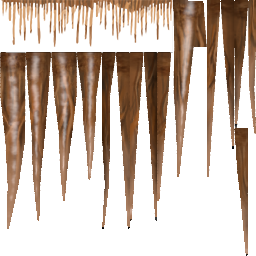
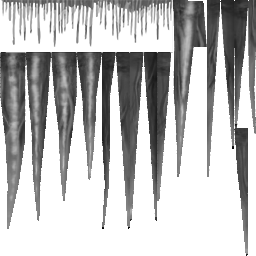
Stalactite1 has dynamic texture color

diff --git a/planet/Objects.ocd/Environment.ocd/Stalactite1.ocd/Script.c b/planet/Objects.ocd/Environment.ocd/Stalactite1.ocd/Script.c
@@ -2,24 +2,98 @@
 	Stalactite1
 	Hangs from the ceiling
 
-	@author 
+	@author Armin
 */
 
-local Name = "$Name$";
-local Description = "$Description$";
-
-func Initialize()
+private func Initialize()
 {
 	SetGraphics(Format("%d",Random(5)));
 	
 	SetProperty("MeshTransformation", Trans_Mul(Trans_Scale(600+Random(900)), Trans_Rotate(-25+Random(50),0,1,0)));
 	
-	var tinys = CreateObject(TinyStalactite, 0, 0);
+	/*var tinys = CreateObject(TinyStalactite, 0, 0);
 	tinys->SetProperty("MeshTransformation", Trans_Mul(Trans_Scale(1000), Trans_Rotate(180,0,0,1)));
-	tinys->SetParent(this);
+	tinys->SetParent(this);*/
 }
 
-func SetStalagmite()
+private func Hit()
+{
+	//Sound();
+	RemoveObject();
+	return true;
+}
+
+private func SetStalagmite()
 {
 	SetProperty("MeshTransformation", Trans_Mul(Trans_Scale(1000), Trans_Rotate(180,0,0,1)));
 }
+
+public func Place(int amount, proplist rectangle, proplist settings)
+{
+	// Only allow definition call.
+	if (this != Stalactite1) 
+		return;
+	// Default parameters.
+	if (!settings) 
+		settings = { size = [100, 100] };
+	if (!settings.size) 
+		settings.size = [100, 100];
+	var loc_area = nil;
+	if (rectangle) 
+		loc_area = Loc_InRect(rectangle);
+	var loc_background = Loc_Tunnel();
+	if (settings.underground)
+		loc_background = Loc_Tunnel();
+		
+	var stalactites = [];	
+	for (var i = 0; i < amount; i++)
+	{
+		var size = RandomX(settings.size[0], settings.size[1]);
+		var loc = FindLocation(loc_background, Loc_Not(Loc_Liquid()), Loc_Wall(CNAT_Right), Loc_Wall(CNAT_Top), loc_area);
+		if (!loc)
+			continue;
+
+		var stalactite = CreateObject(Stalactite1);
+		stalactite->SetPosition(loc.x, loc.y + 25);
+		var tinys = CreateObject(TinyStalactite, 0, 0);
+		tinys->SetPosition(loc.x, loc.y+4);
+		tinys->SetParent(stalactite);
+		stalactite->SetCon(size);
+		// todo stalactite->AdjustPosition();
+		var mat = MaterialName(stalactite->GetMaterial(0, -stalactite->GetObjHeight()/2));
+		//stalactite->Message("Material: %s|Minus: %d", mat, stalactite->GetObjHeight()/2);
+		if (mat == "Ice")
+		{
+			stalactite->SetClrModulation(RGBa(157,202,243,160));
+			tinys->SetClrModulation(RGBa(157,202,243,160));
+		}
+		else
+		{
+			stalactite->SetClrModulation(GetAverageTextureColor(mat));
+			tinys->SetClrModulation(GetAverageTextureColor(mat));
+			tinys->DrawWaterSource();
+		}
+		if (!Random(2))
+		{
+			var xy;
+			if (xy = FindConstructionSite(Stalactite1, loc.x, loc.y+60));
+			{
+				var stalactite2 = CreateObject(Stalactite1, loc.x, xy[1]-28);
+				stalactite2->SetR(180);
+				if (mat == "Ice")
+				{
+					stalactite2->SetClrModulation(RGBa(157,202,243,160));
+				}
+				else
+				{
+					stalactite2->SetClrModulation(GetAverageTextureColor(mat));
+				}
+			}
+		}
+		PushBack(stalactites, stalactite);	
+	}
+	return stalactites;
+}
+
+local Name = "$Name$";
+local Description = "$Description$";

diff --git a/planet/Objects.ocd/Environment.ocd/Stalactite1.ocd/TinyStalactite.ocd/Script.c b/planet/Objects.ocd/Environment.ocd/Stalactite1.ocd/TinyStalactite.ocd/Script.c
@@ -2,24 +2,37 @@
 	TinyStalactite
 	Covers up the base of stalactites
 
-	@author 
+	@author Armin
 */
 
-local Name = "$Name$";
-local Description = "$Description$";
-local parent;
-
-func Initialize()
+private func Initialize()
 {
 }
 
-func SetParent(object target)
+private func SetParent(object target)
 {
 	parent = target;
 	AddEffect("Parent",this,1,1,this);
 }
 
-func FxParentTimer(object target, effect, int time)
+private func FxParentTimer(object target, effect, int time)
 {
-	SetPosition(parent->GetX(), parent->GetY());
+	//SetPosition(parent->GetX(), parent->GetY());
 }
+
+private func DrawWaterSource()
+{
+	var x = GetX();
+	var y = GetY();
+	for (var i = 0; i < RandomX(30,140); i++)
+	{
+		DrawMaterialQuad("Water", x,y, x+1,y, x+1,y+1, x,y+1);
+		y--;
+		x = x + RandomX(-1, 1);
+	}
+}
+
+local Name = "$Name$";
+local Description = "$Description$";
+local parent;
+local Plane = 500;
